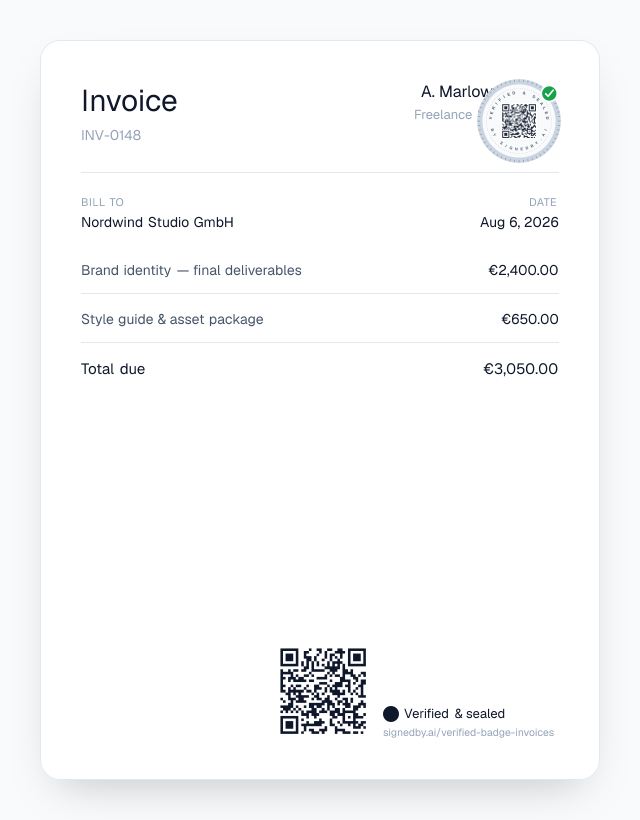
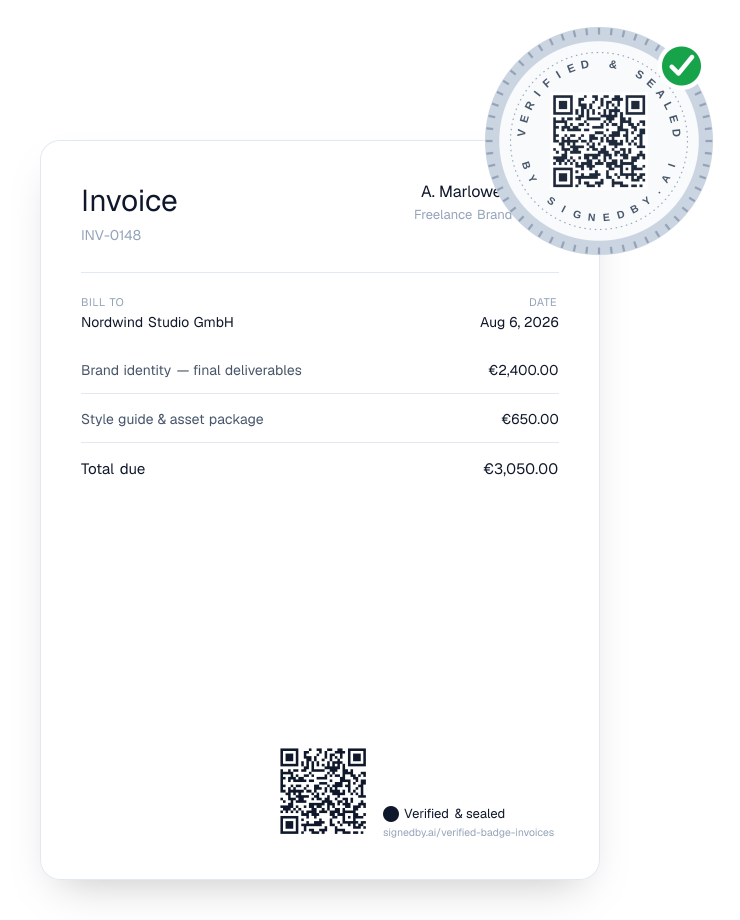
D: wax seal much larger, floating outside the document's edge
Direct ask, reference screenshot attached. Seal grew 88px -> 240px and
moved from anchoring the header text column to anchoring the card's
own top-right corner, centered on that point so roughly half the
medallion hangs in blank space outside the card, the other half
overlaps the company name (now reaching further into it than before --
accepted, matches 'much larger').

Canvas grew to 740x920 (from 640x820) with extra top/right padding so
the oversized overhang doesn't get clipped by the PNG's own edge, and
its background is now white instead of #f8fafc so that extra padding
melts into the page rather than showing as a tinted rectangle. page.tsx
drops the usual rounded-border/overflow-hidden wrapper for D specifically
-- it would've re-boxed the whole canvas including the seal's overhang,
undoing the 'floating outside the edge' effect.

diff --git a/scripts/generate-hero-verified-badge-invoice-d.tsx b/scripts/generate-hero-verified-badge-invoice-d.tsx
@@ -20,9 +20,26 @@ import { ImageResponse } from "next/og";
 // text layout -- easiest to get right (and verify by eye) inside the same
 // script that lays out that text, rather than guessing coordinates against
 // a separately-rendered flat image from the DOM side.
+//
+// Enlarged 2026-08-09 (direct ask, reference screenshot attached): "much
+// larger" and "appear to be floating outside the edge of the document" --
+// first pass (88px, tucked mostly inside the card) read as a small corner
+// icon, not a stamped seal. Now 240px, centered squarely on the card's own
+// top-right corner point so roughly half the medallion hangs in the blank
+// margin outside the card. That corner sits at a fixed (600, cardTop) in
+// canvas coordinates regardless of outer padding (40px left padding + 560
+// card width), so the seal is now positioned relative to the CARD itself
+// (needs its own position:relative) rather than the header text column --
+// simpler anchor, and correct now that the seal is bigger than the column.
+// The canvas gained extra top/right padding (140 vs the shared image's 40)
+// purely to give the oversized, overhanging seal room before it'd get
+// clipped by the PNG's own edge -- card width/height are unchanged (still
+// 560x740) so its content layout matches every other variant.
 
-const WIDTH = 640;
-const HEIGHT = 820;
+const WIDTH = 740;
+const HEIGHT = 920;
+const OUTER_PAD_TOP = 140;
+const OUTER_PAD_RIGHT = 140;
 const NAVY = "#0f172a";
 const SLATE = "#475569";
 const MUTED = "#94a3b8";
@@ -50,12 +67,22 @@ async function main() {
           height: HEIGHT,
           display: "flex",
           flexDirection: "column",
-          backgroundColor: "#f8fafc",
-          padding: 40,
+          // White, not the shared image's #f8fafc -- this canvas has a lot
+          // of extra blank margin now (for the seal to float in), and
+          // page.tsx renders this one WITHOUT its usual rounded-border
+          // wrapper (see that file's comment) so the margin needs to melt
+          // into the page's own bg-white instead of showing as a visible
+          // tinted rectangle.
+          backgroundColor: "#ffffff",
+          paddingTop: OUTER_PAD_TOP,
+          paddingRight: OUTER_PAD_RIGHT,
+          paddingBottom: 40,
+          paddingLeft: 40,
         }}
       >
         <div
           style={{
+            position: "relative",
             display: "flex",
             flexDirection: "column",
             flex: 1,
@@ -71,31 +98,29 @@ async function main() {
               <div style={{ display: "flex", fontSize: 30, fontWeight: 700, color: NAVY }}>Invoice</div>
               <div style={{ marginTop: 6, display: "flex", fontSize: 14, color: MUTED }}>INV-0148</div>
             </div>
-            {/* position:relative wrapper so the seal below can anchor to
-                this column's own top-right corner regardless of exactly
-                how wide the rendered text is -- see file header comment. */}
-            <div style={{ position: "relative", display: "flex", flexDirection: "column", alignItems: "flex-end" }}>
+            <div style={{ display: "flex", flexDirection: "column", alignItems: "flex-end" }}>
               <div style={{ display: "flex", fontSize: 16, fontWeight: 600, color: NAVY }}>A. Marlowe Design</div>
               <div style={{ marginTop: 4, display: "flex", fontSize: 13, color: MUTED }}>Freelance Brand Design</div>
-              {/* Wax-seal medallion, stamped over the top-right corner of
-                  the company name so it covers "Design" -- direct ask,
-                  2026-08-09. Sized/positioned by render-and-check (satori
-                  text metrics aren't queryable ahead of time): 132px was
-                  too big (swallowed "Marlowe" too), 92px at right:-10 still
-                  clipped the tail of "Marlowe". 88px/right:-4 leaves "A.
-                  Marlowe" fully clear while still fully covering "Design"
-                  (and the tagline line below it, which the medallion's
-                  lower arc reaches -- an accepted side effect, not
-                  specifically called out either way). */}
-              <img
-                src={sealDataUri}
-                width={88}
-                height={88}
-                alt=""
-                style={{ position: "absolute", top: -4, right: -4 }}
-              />
             </div>
           </div>
+
+          {/* Wax-seal medallion, stamped over the card's own top-right
+              corner so it hangs off the edge of the document -- direct
+              ask, 2026-08-09 (see file header comment). 240px, centered on
+              the corner point (top:-120/right:-120, half its own diameter
+              each direction) so roughly half floats outside the card into
+              the canvas's blank margin, the other half overlaps the
+              company name -- covers "Design" and reaches into "Marlowe"
+              and the tagline line below it too now that it's this much
+              bigger, an accepted side effect of "much larger" per the
+              request. */}
+          <img
+            src={sealDataUri}
+            width={240}
+            height={240}
+            alt=""
+            style={{ position: "absolute", top: -120, right: -120 }}
+          />
 
           <div style={{ marginTop: 28, display: "flex", height: 1, backgroundColor: BORDER }} />
 

diff --git a/src/app/verified-badge-invoices/page.tsx b/src/app/verified-badge-invoices/page.tsx
@@ -341,27 +341,41 @@ export default async function VerifiedBadgeInvoicesPage({
             <ArrowRight className="h-6 w-6 shrink-0 text-slate-300 sm:h-8 sm:w-8" aria-hidden="true" />
             <HeroInvoiceCard sealed />
           </div>
+        ) : ctaVariant === "D" ? (
+          /* D's own image, no wrapping card chrome (2026-08-09, direct
+             ask, reference screenshot attached): "much larger and appear
+             to be floating outside the edge of the document." The usual
+             rounded-border/overflow-hidden wrapper (still used for A/B/C
+             below) would re-box the whole canvas including the seal's
+             overhang, defeating that "floating outside" look — so this
+             branch renders the Image bare. hero-verified-badge-invoice-d.png
+             is its own bigger 740x920 canvas (vs. the shared 640x820) with
+             a white background and extra top/right padding purpose-built
+             for the seal to hang past the card's corner without being
+             clipped — see generate-hero-verified-badge-invoice-d.tsx. */
+          <div className="w-full max-w-sm">
+            <Image
+              src="/hero-verified-badge-invoice-d.png"
+              alt="A Verified Badge stamped in the corner of a freelance invoice — the SignedBy mark, a scannable QR code, and a verification link"
+              width={740}
+              height={920}
+              priority
+              sizes="(max-width: 640px) 90vw, 384px"
+              className="h-auto w-full"
+            />
+          </div>
         ) : (
           /* The in-context invoice mockup — this is the page it was
              actually built for. See hero-verified-badge-invoice.png's own
              generation comment (generate-hero-mockup.tsx) for the
-             QR-target gotcha already fixed once here.
-
-             A/B/C use the shared hero-verified-badge-invoice.png (large
-             green tick centered above the QR). D uses its own
-             hero-verified-badge-invoice-d.png with NO tick anywhere in the
-             base image — the wax-seal medallion is baked directly into
-             that file instead, stamped over the top-right corner of the
-             company name so it covers "Design" (see
-             generate-hero-verified-badge-invoice-d.tsx; this needed
-             pixel-accurate placement against that image's own text layout,
-             not achievable from a CSS overlay against a flat PNG). Both
-             share the same 640x820 canvas. (E no longer renders through
-             this branch — see the ctaVariant === "E" case above.) */
+             QR-target gotcha already fixed once here. A/B/C use the shared
+             hero-verified-badge-invoice.png (large green tick centered
+             above the QR), 640x820. (D and E no longer render through this
+             branch — see the ctaVariant cases above.) */
           <div className="relative w-full max-w-sm">
             <div className="overflow-hidden rounded-xl border border-slate-200/60 shadow-[0_1px_2px_rgba(15,23,42,0.04),0_10px_28px_-8px_rgba(15,23,42,0.12)]">
               <Image
-                src={ctaVariant === "D" ? "/hero-verified-badge-invoice-d.png" : "/hero-verified-badge-invoice.png"}
+                src="/hero-verified-badge-invoice.png"
                 alt="A Verified Badge stamped in the corner of a freelance invoice — the SignedBy mark, a scannable QR code, and a verification link"
                 width={640}
                 height={820}
